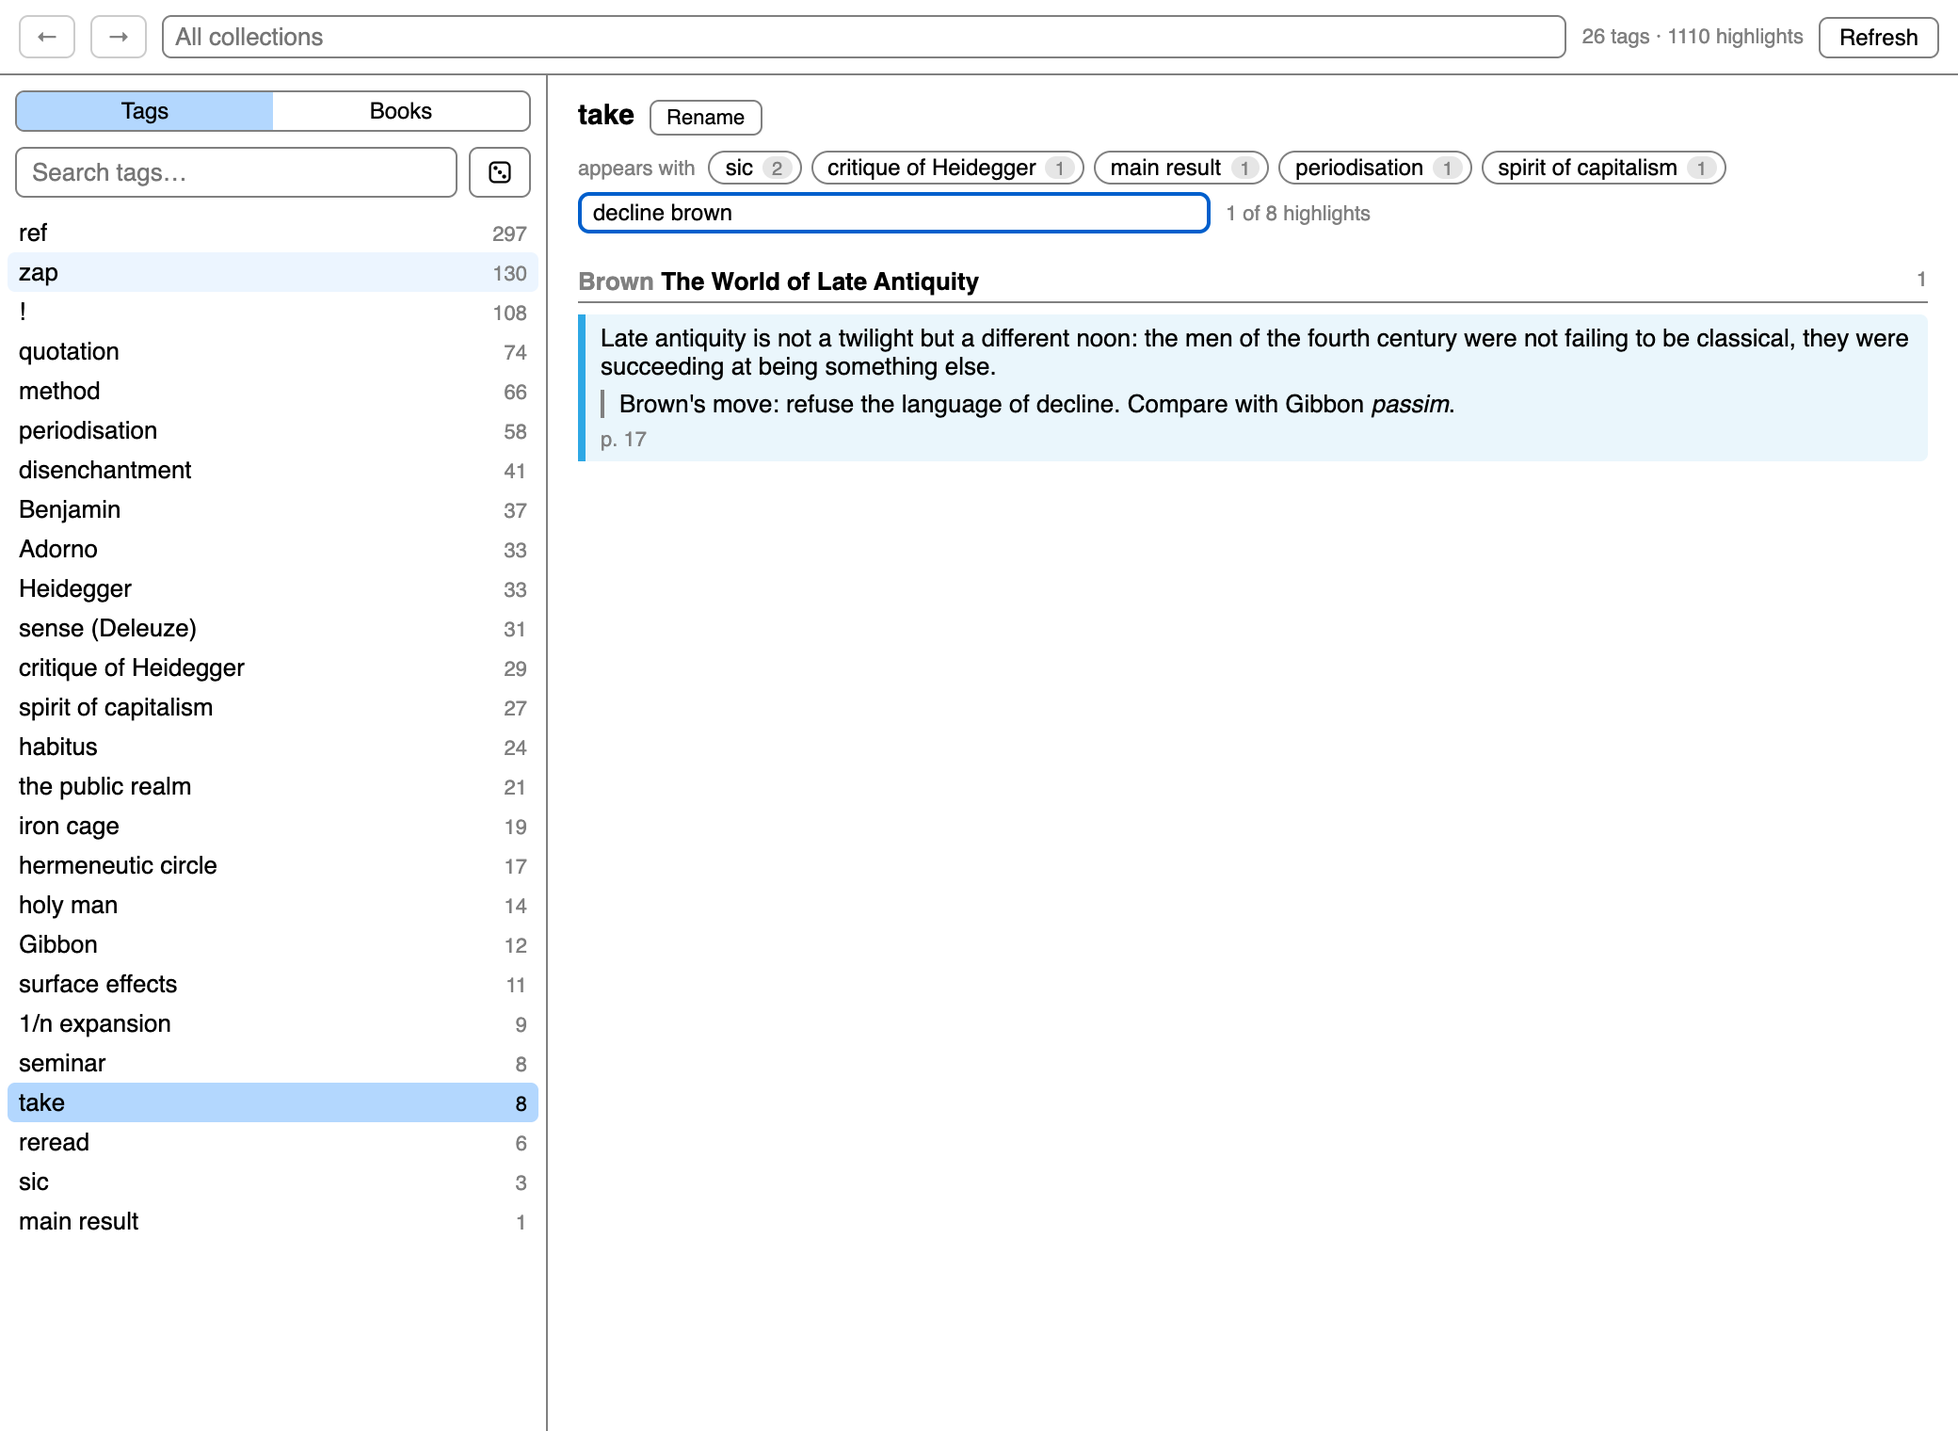
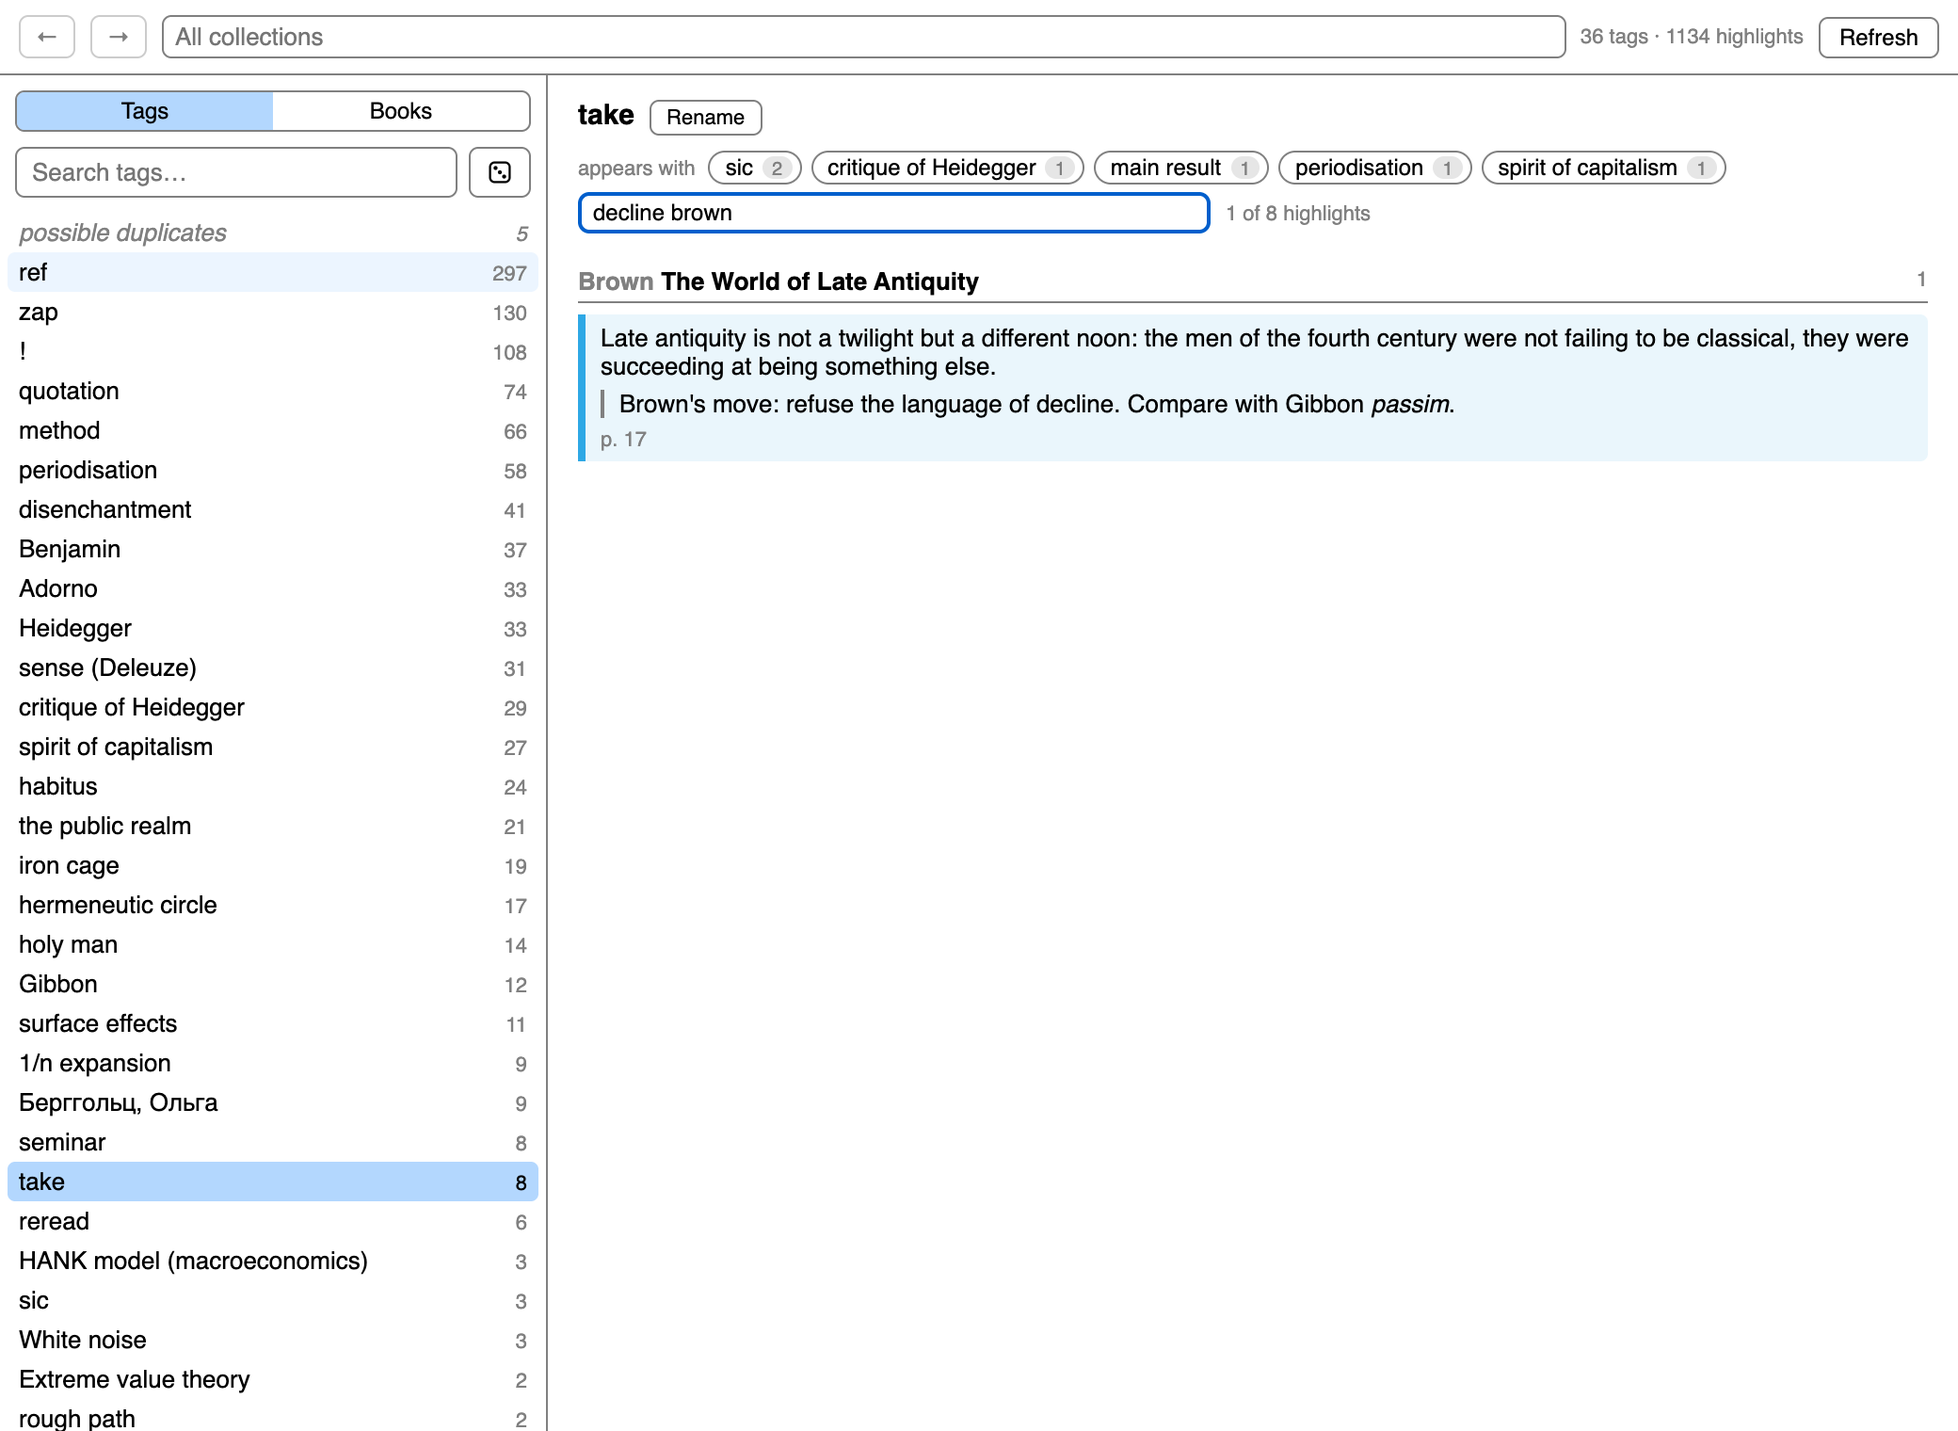
Suggest which tags are the same and should be merged
Two tiers, because the obvious approach is dangerous on real data.

Safe: fold case, spacing and a trailing plural, and cluster what collides.
Punctuation is deliberately left alone — in a maths library "condition D'
(EVT)" is not "condition D (EVT)" and "T^+" is not "T", and stripping it
also collapses every punctuation-only tag onto the empty string. In a real
8,236-tag library this finds 11 clusters, 13 merges, no false positives.

Worth a look: one edit apart, but only when the name is long enough that a
letter is a small share of it and one side is used once against an
established other. Raw edit distance offers 73 pairs there, of which about
one is real — it wants to merge Kant with Comte, XII with XIV, CNN with
FNN, 2-correlator with 4-correlator. The guards cut it to 4. These arrive
with nothing selected and the button disabled, so no merge happens by
reflex.

diff --git a/bootstrap.js b/bootstrap.js
@@ -21,6 +21,8 @@ let collectionMenuID = null;
 
 let entries = [];         // every tagged annotation — see buildIndex()
 let counts = [];          // [{ tag, n }] for the current scope, best first
+let dupes = [];           // clusters of the same tag spelled differently
+let nears = [];           // one-letter neighbours worth a second look
 let loading = null;       // the in-flight buildIndex(), or null
 let win = null;           // the one explorer window
 let scope = null;         // collection id the view is restricted to, or null
@@ -188,6 +190,85 @@ function groupByBook(list) {
 	return out;
 }
 
+// --- duplicate tags ---------------------------------------------------------
+
+// Punctuation is deliberately left alone. In these libraries it carries
+// meaning — "condition D' (EVT)" is not "condition D (EVT)", "T^+" is not "T" —
+// and stripping it also collapses every punctuation-only tag ("!", "?", "\\")
+// onto the empty string.
+const squash = (t) => t.normalize("NFC").trim().replace(/\s+/g, " ");
+const fold = (t) => squash(t).toLowerCase();
+const stem = (t) => fold(t).replace(/s$/, "");
+
+function why(tags) {
+	if (new Set(tags.map((t) => t.toLowerCase())).size === 1) return "capitalisation";
+	if (new Set(tags.map(fold)).size === 1) return "spacing";
+	return "singular and plural";
+}
+
+// Tags that are the same tag written differently. Only the folds that cannot
+// change meaning, so every cluster here is safe to merge.
+function dupeClusters(counts) {
+	const g = new Map();
+	for (const c of counts) {
+		const key = stem(c.tag);
+		if (!key) continue;                       // a tag of pure punctuation is its own thing
+		if (!g.has(key)) g.set(key, []);
+		g.get(key).push(c);
+	}
+	return [...g.values()].filter((v) => v.length > 1)
+		.map((v) => {
+			const tags = v.slice().sort((a, b) => b.n - a.n || a.tag.localeCompare(b.tag));
+			return { why: why(tags.map((t) => t.tag)), tags };
+		})
+		.sort((a, b) => sum(b.tags) - sum(a.tags) || a.tags[0].tag.localeCompare(b.tags[0].tag));
+}
+
+const sum = (tags) => tags.reduce((k, t) => k + t.n, 0);
+
+// One typo apart — and almost always not a typo. Systematically named tags sit
+// one letter from each other on purpose ("2-correlator"/"4-correlator",
+// "XII век"/"XIV век", "Кант"/"Конт"), so two guards do the work: the names must
+// be long enough that one letter is a small share of them, and one must be used
+// once while the other is established. That turns 73 guesses into a handful.
+function nearMisses(counts, minLength = 8, established = 3) {
+	const by = new Map();
+	for (const c of counts) by.set(c.tag, c.n);
+	const buckets = new Map();
+	const add = (k, t) => {
+		if (!buckets.has(k)) buckets.set(k, new Set());
+		buckets.get(k).add(t);
+	};
+	for (const c of counts) {
+		if (c.tag.length < minLength) continue;
+		const low = fold(c.tag);
+		add(low, c.tag);
+		for (let i = 0; i < low.length; i++) add(low.slice(0, i) + "\u0000" + low.slice(i + 1), c.tag);
+	}
+	const out = new Map();
+	for (const set of buckets.values()) {
+		if (set.size < 2) continue;
+		const list = [...set];
+		for (let i = 0; i < list.length; i++) {
+			for (let j = i + 1; j < list.length; j++) {
+				const a = list[i], b = list[j];
+				if (Math.abs(a.length - b.length) > 1) continue;
+				if (stem(a) === stem(b)) continue;          // dupeClusters already has it
+				const lo = Math.min(by.get(a), by.get(b));
+				const hi = Math.max(by.get(a), by.get(b));
+				if (lo !== 1 || hi < established) continue;
+				const key = [a, b].sort().join("\u0000");
+				if (!out.has(key)) {
+					out.set(key, { why: "one letter", tags: [{ tag: a, n: by.get(a) }, { tag: b, n: by.get(b) }]
+						.sort((x, y) => y.n - x.n) });
+				}
+			}
+		}
+	}
+	return [...out.values()]
+		.sort((a, b) => sum(b.tags) - sum(a.tags) || a.tags[0].tag.localeCompare(b.tags[0].tag));
+}
+
 // The second axis: every book with highlights here, most marked first.
 function bookList(rows) {
 	const m = new Map();
@@ -297,6 +378,10 @@ const inScope = (e) => !scope || e.colls.has(scope);
 
 function rescope() {
 	counts = tagCounts(entries.filter(inScope));
+	// Here rather than in the render: this runs on a scope change or a merge,
+	// not on every keystroke.
+	dupes = dupeClusters(counts);
+	nears = nearMisses(counts);
 	if (!view) return;
 	// A view that the new scope has emptied is not a view any more.
 	if (view.kind === "tag" && !counts.some((c) => c.tag === view.value)) view = null;
@@ -335,8 +420,25 @@ body { margin:0; height:100vh; display:flex; flex-direction:column;
 .head button.step { font:12px sans-serif; padding:3px 8px; min-width:28px; }
 .head button.step:disabled { color:GrayText; border-color:color-mix(in srgb, GrayText 40%, Canvas);
 	cursor:default; background:transparent; }
-.tag.all { color:GrayText; font-style:italic; }
-.tag.all.on { color:HighlightText; }
+.tag.all, .tag.dup { color:GrayText; font-style:italic; }
+.tag.all.on, .tag.dup.on { color:HighlightText; }
+.sect { display:flex; align-items:baseline; gap:8px; margin:18px 0 2px; }
+.sect h2 { font-size:12px; margin:0; }
+.sect span { color:GrayText; font-size:11px; }
+.dupe { border:1px solid color-mix(in srgb, GrayText 40%, Canvas); border-radius:6px;
+	padding:7px 10px 8px; margin:8px 0; }
+.dupe.maybe { border-style:dashed; }
+.dupe .top { display:flex; align-items:center; gap:10px; }
+.dupe .why { flex:1; min-width:0; color:GrayText; font-size:11px; }
+.dupe.maybe .why { font-style:italic; }
+.dupe button { font:11px sans-serif; padding:2px 10px; border:1px solid GrayText;
+	border-radius:5px; background:transparent; color:CanvasText; cursor:pointer; white-space:nowrap; }
+.dupe button:hover:not(:disabled) { background:Highlight; color:HighlightText; }
+.dupe button:disabled { color:GrayText; border-color:color-mix(in srgb, GrayText 40%, Canvas); cursor:default; }
+.dupe .opts { display:flex; flex-wrap:wrap; gap:6px 18px; margin-top:5px; }
+.dupe label { display:flex; align-items:center; gap:6px; cursor:pointer; }
+.dupe label b { font-weight:400; font-size:10px; color:GrayText;
+	background:color-mix(in srgb, GrayText 20%, Canvas); border-radius:7px; padding:0 5px; }
 .near { display:flex; flex-wrap:wrap; gap:5px; align-items:center; margin:8px 0 2px; }
 .near > span { color:GrayText; font-size:11px; margin-right:2px; }
 .near i { font-style:normal; font-size:12px; border:1px solid GrayText; border-radius:9px;
@@ -758,6 +860,14 @@ function build(w) {
 	function renderTagRows() {
 		const q = search.value.trim();
 		visible = matchTags(counts, search.value);
+		// A browsing affordance, so it stays out of the way once you are typing.
+		if (!q && (dupes.length || nears.length)) {
+			const row = el(doc, "div", "tag dup" + (view && view.kind === "dupes" ? " on" : ""));
+			row.append(el(doc, "span", null, "possible duplicates"),
+				el(doc, "b", null, String(dupes.length + nears.length)));
+			row.addEventListener("click", () => show({ kind: "dupes" }));
+			listBox.append(row);
+		}
 		// Pinned above the matches, and deliberately not one of them: the tag
 		// vocabulary is not the only way in, and when most tags have been used
 		// once it is often not the way at all.
@@ -898,6 +1008,7 @@ function build(w) {
 			right.append(el(doc, "div", "empty", "Pick a tag or a book."));
 			return;
 		}
+		if (view.kind === "dupes") return renderDupes();
 		if (view.kind === "find") return renderFound();
 		if (view.kind === "book") return renderBook();
 		return renderTag();
@@ -992,6 +1103,86 @@ function build(w) {
 			`${rows.length} highlight${rows.length === 1 ? "" : "s"} anywhere in your library`
 			+ (scope ? ", in this collection" : "")));
 		right.append(listOf(rows, false).list);
+	}
+
+	function renderDupes() {
+		const title = el(doc, "div", "title");
+		title.append(el(doc, "h1", null, "Possible duplicates"));
+		right.append(title);
+		const merges = dupes.reduce((k, c) => k + c.tags.length - 1, 0);
+		right.append(el(doc, "div", "sub", dupes.length || nears.length
+			? `${dupes.length} cluster${dupes.length === 1 ? "" : "s"} \u00B7 ${merges} merge${merges === 1 ? "" : "s"}`
+				+ ` \u00B7 from ${counts.length} tags`
+			: `nothing left to merge among ${counts.length} tags`));
+
+		if (dupes.length) {
+			right.append(section("Same tag, spelled differently", "safe to merge"));
+			for (const c of dupes) right.append(dupeBlock(c, false));
+		}
+		if (nears.length) {
+			right.append(section("Near misses",
+				"check before merging \u2014 some of these are meant to differ"));
+			for (const c of nears) right.append(dupeBlock(c, true));
+		}
+	}
+
+	function section(head, note) {
+		const box = el(doc, "div", "sect");
+		box.append(el(doc, "h2", null, head), el(doc, "span", null, note));
+		return box;
+	}
+
+	let groupN = 0;
+
+	// One cluster: which spelling survives, and the button that does it. The
+	// safe ones arrive with the most-used spelling chosen; the near misses
+	// arrive with nothing chosen, so the merge cannot happen by reflex.
+	function dupeBlock(c, maybe) {
+		const box = el(doc, "div", "dupe" + (maybe ? " maybe" : ""));
+		const go = el(doc, "button", null, maybe ? "Merge\u2026" : "Merge");
+		let keep = maybe ? null : c.tags[0].tag;
+		go.disabled = !keep;
+		go.addEventListener("click", () => keep && mergeCluster(c, keep, box));
+
+		const top = el(doc, "div", "top");
+		top.append(el(doc, "span", "why",
+			(maybe ? "worth a look \u2014 " : "") + "differ by " + c.why), go);
+		box.append(top);
+
+		const opts = el(doc, "div", "opts");
+		const group = "dupe" + (groupN++);
+		for (const [i, t] of c.tags.entries()) {
+			const lab = el(doc, "label");
+			const radio = doc.createElement("input");
+			radio.type = "radio";
+			radio.name = group;
+			radio.checked = !maybe && i === 0;
+			radio.addEventListener("change", () => { keep = t.tag; go.disabled = false; });
+			lab.append(radio, el(doc, "span", null, t.tag), el(doc, "b", null, String(t.n)));
+			opts.append(lab);
+		}
+		box.append(opts);
+		return box;
+	}
+
+	// Every other spelling renamed onto the survivor. No merge warning here —
+	// absorbing them is the whole point, and the counts are on screen.
+	async function mergeCluster(c, keep, box) {
+		for (const t of c.tags) {
+			if (t.tag === keep) continue;
+			const libs = new Set(entries.filter((e) => e.tags.includes(t.tag)).map((e) => e.libraryID));
+			try {
+				for (const lib of libs) await Zotero.Tags.rename(lib, t.tag, keep);
+			} catch (e) {
+				oops(e);
+				return box.append(el(doc, "div", "err", `Could not merge: ${e.message}`));
+			}
+			renameInList(entries, t.tag, keep, libs);
+		}
+		rescope();
+		countLabel.textContent = summary();
+		renderLeft();
+		renderRight();
 	}
 
 	function startRename(title) {
@@ -1187,5 +1378,5 @@ function uninstall() {}
 
 // node-only: lets test.js import the pure helpers; no-op inside Zotero.
 if (typeof module !== "undefined") {
-	module.exports = { fuzzy, rank, tagCounts, matchTags, matchColls, countByCollection, renameInList, parseMarkup, matchText, neighbours, matchBooks, bookList, related, groupByBook };
+	module.exports = { fuzzy, rank, tagCounts, matchTags, matchColls, countByCollection, renameInList, parseMarkup, matchText, neighbours, matchBooks, bookList, related, dupeClusters, nearMisses, groupByBook };
 }

diff --git a/test.js b/test.js
@@ -1,6 +1,6 @@
 // Self-check for the pure helpers: `node test.js`.
 const assert = require("assert");
-const { fuzzy, rank, tagCounts, matchTags, matchColls, countByCollection, renameInList, parseMarkup, matchText, neighbours, matchBooks, bookList, related, groupByBook } = require("./bootstrap.js");
+const { fuzzy, rank, tagCounts, matchTags, matchColls, countByCollection, renameInList, parseMarkup, matchText, neighbours, matchBooks, bookList, related, dupeClusters, nearMisses, groupByBook } = require("./bootstrap.js");
 
 assert.ok(fuzzy("", "anything"));
 assert.ok(fuzzy("mdv", "medieval"));
@@ -122,6 +122,39 @@ assert.deepStrictEqual(neighbours(graph, "Weber"), [{ tag: "iron cage", n: 1 }])
 assert.deepStrictEqual(neighbours(graph, "iron cage"), [{ tag: "Weber", n: 1 }]);
 assert.deepStrictEqual(neighbours(graph, "nobody"), []);          // a tag with no company
 assert.strictEqual(neighbours(graph, "Arendt", 1).length, 1);     // honours the limit
+
+// --- duplicate tags ------------------------------------------------------
+const tag = (t, n) => ({ tag: t, n });
+
+const d = dupeClusters([
+	tag("White noise", 3), tag("white noise", 1),
+	tag("rough path", 2), tag("rough paths", 1),
+	tag("limit theorem", 2), tag("Limit Theorems", 1),
+	tag("!", 108), tag("?", 4), tag("\\", 1),            // punctuation is never folded away
+	tag("condition D' (EVT)", 3), tag("condition D (EVT)", 2),
+	tag("Кант", 18), tag("Конт", 2),                  // one letter, different philosophers
+	tag("alone", 5),
+]);
+assert.deepStrictEqual(d.map((c) => [c.why, c.tags.map((t) => t.tag)]), [
+	["capitalisation", ["White noise", "white noise"]],
+	["singular and plural", ["limit theorem", "Limit Theorems"]],
+	["singular and plural", ["rough path", "rough paths"]],
+]);
+
+// Spacing and NFC differences fold; the most used spelling leads.
+const sp = dupeClusters([tag("rough  path", 1), tag("rough path", 9)]);
+assert.deepStrictEqual(sp[0].tags.map((t) => t.tag), ["rough path", "rough  path"]);
+assert.strictEqual(sp[0].why, "spacing");
+
+// Near misses: long enough, and one side used once against an established one.
+const near = nearMisses([
+	tag("Берггольц, Ольга", 9), tag("Берргольц, Ольга", 1),   // a real typo
+	tag("ref", 297), tag("rem", 1),                          // too short to judge
+	tag("национализм", 9), tag("рационализм", 4),            // both established: not offered
+	tag("White noise", 3), tag("white noise", 1),            // dupeClusters' job, not this one
+]);
+assert.deepStrictEqual(near.map((c) => c.tags.map((t) => t.tag)),
+	[["Берггольц, Ольга", "Берргольц, Ольга"]]);
 
 // One block per book, highlights inside it in reading order.
 const books = groupByBook(list);

diff --git a/README.md b/README.md
@@ -46,7 +46,14 @@ A Zotero 10 plugin for reading your own marginalia by tag.
   “…” across all books* button to go to the tag itself. Related books fold away
   by default, with their count on the header, and stay as you left them from
   book to book;
-- a **die** beside the search box rolls a random tag, or a random book. Two thirds of the tags in
+- a **die** beside the search box rolls a random tag, or a random book;
+- **possible duplicates** — a review list of tags that are the same tag written
+  two ways. Only folds that cannot change meaning are treated as safe
+  (capitalisation, spacing, a trailing plural); punctuation is left alone
+  because in a maths library `condition D'` is not `condition D`. A second
+  section offers one-letter neighbours, which are *usually not* duplicates —
+  `2-correlator`/`4-correlator`, `Кант`/`Конт` — so those arrive with nothing
+  selected and the merge button disabled until you choose a survivor. Two thirds of the tags in
   a well-used library have been used exactly once, which puts them past the end
   of every sorted list; this is the only thing that ever surfaces them. It draws
   from what is currently listed, so a search or a collection narrows the roll;
@@ -84,19 +91,24 @@ you marked, in reading order:
 
 ![A book and its related books](docs/05-books.png)
 
+Tags that are the same tag spelled two ways, with the ones that only look alike
+kept separate and unselected:
+
+![The duplicates review](docs/06-duplicates.png)
+
 Restricting everything to one collection, searched the same way over the full
 path, with the number of highlights each one holds:
 
-![Scoping to a collection](docs/06-collections.png)
+![Scoping to a collection](docs/07-collections.png)
 
 Renaming a tag in place. Enter hands it to Zotero's own rename, so every item in
 the library that carries the tag moves with it:
 
-![Renaming a tag](docs/07-rename.png)
+![Renaming a tag](docs/08-rename.png)
 
 It follows the system theme:
 
-![Dark mode](docs/08-dark.png)
+![Dark mode](docs/09-dark.png)
 
 <sub>Screenshots show invented demo content, not a real library. They are of the
 real interface: `bootstrap.js` is loaded verbatim and draws these pages itself.</sub>
